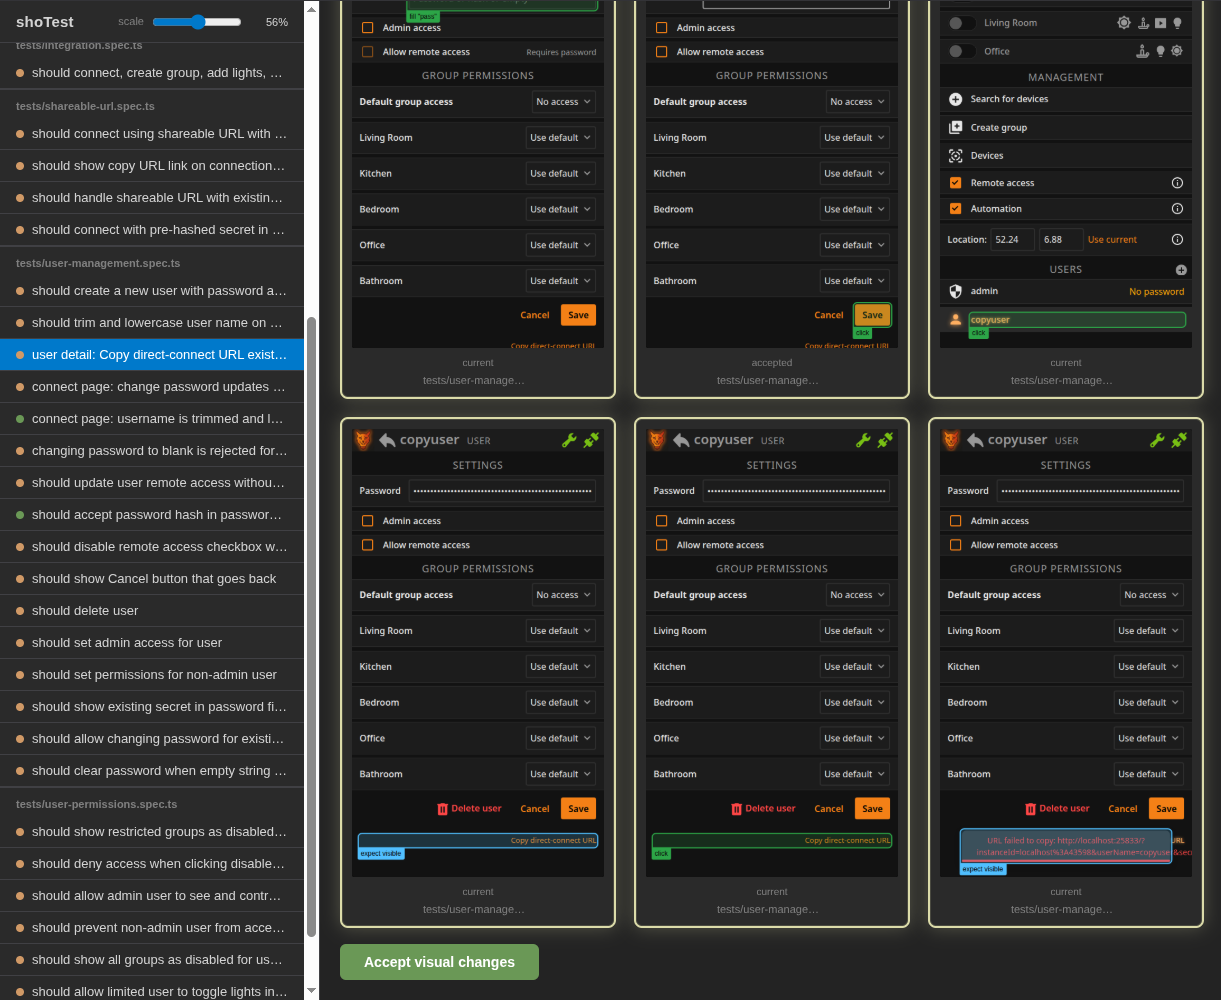
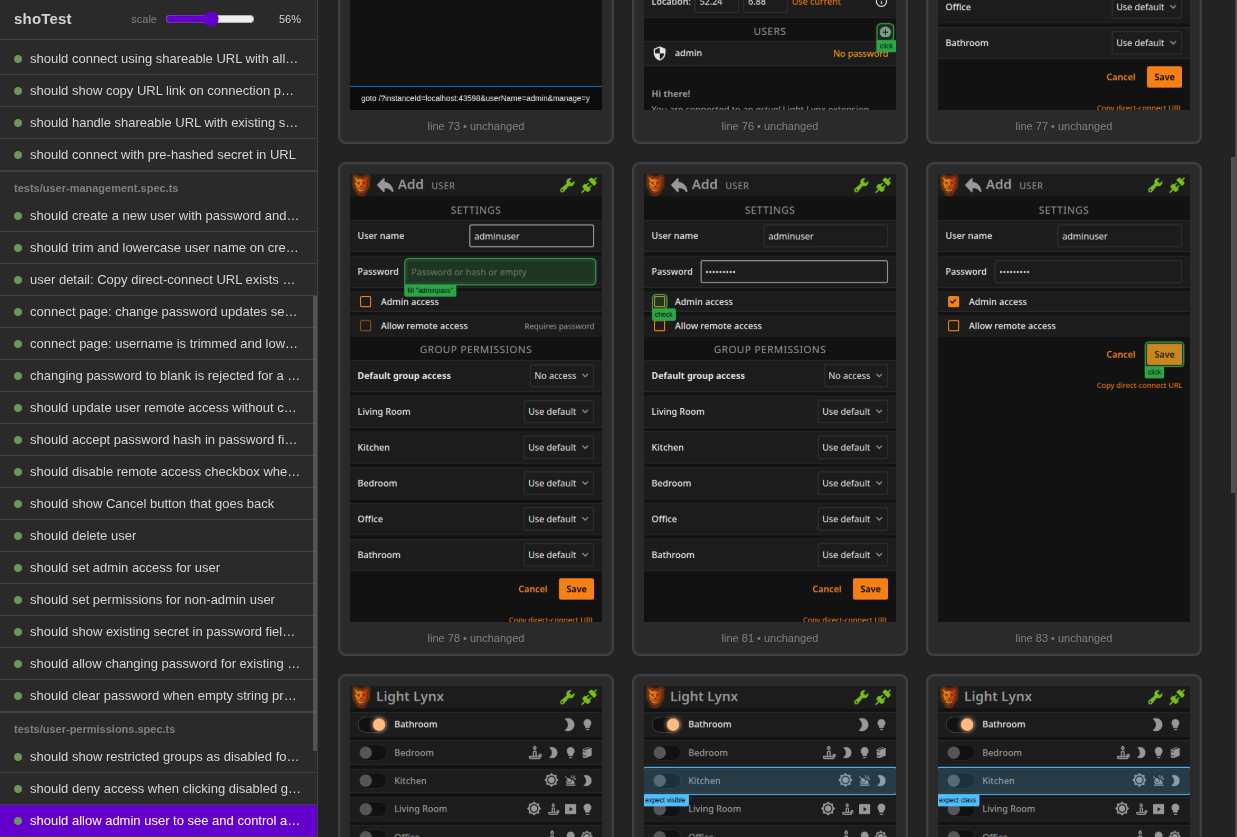
Various fixes and improved docs

Changed region(s): [[0.0, 0.0, 1.0, 1.0]]

diff --git a/src/fixture.ts b/src/fixture.ts
@@ -396,12 +396,12 @@ function wrapLocator(actualLocator: Locator, actualPage: Page): Locator {
             try {
                 await hideOverlay(actualPage);
                 await waitForVisualStability(actualPage, 250);
-                const box = await actualLocator.boundingBox({ timeout: 3000 }).catch(() => null);
+                await actualLocator.scrollIntoViewIfNeeded({ timeout: 3000 }).catch(() => {});
+                const box = await actualLocator.boundingBox().catch(() => null);
                 if (!box) {
-                    await showOverlayBanner(actualPage, `Cannot find ${actualLocator} for ${short}`, 'info');
-                } else {
-                    await showOverlayCheck(actualPage, box, short);
+                    throw new Error(failureText);
                 }
+                await showOverlayCheck(actualPage, box, short);
                 await takeScreenshot(actualPage, true, loc);
                 const result = await (actualLocator as any)[method](...args);
                 pendingFailureText = '';
@@ -430,7 +430,8 @@ function wrapLocator(actualLocator: Locator, actualPage: Page): Locator {
             const result = await (actualLocator as any)._expect(method, options);
             await hideOverlay(actualPage);
             await waitForVisualStability(actualPage, 200);
-            const box = await actualLocator.boundingBox({ timeout: 1000 }).catch(() => null);
+            await actualLocator.scrollIntoViewIfNeeded({ timeout: 1000 }).catch(() => {});
+            const box = await actualLocator.boundingBox().catch(() => null);
             if (box) {
                 await showOverlayCheck(actualPage, box, label, 'assert');
             } else {
@@ -442,7 +443,8 @@ function wrapLocator(actualLocator: Locator, actualPage: Page): Locator {
         } catch (error: any) {
             await hideOverlay(actualPage);
             await waitForVisualStability(actualPage, 120);
-            const box = await actualLocator.boundingBox({ timeout: 500 }).catch(() => null);
+            await actualLocator.scrollIntoViewIfNeeded({ timeout: 500 }).catch(() => {});
+            const box = await actualLocator.boundingBox().catch(() => null);
             if (box) {
                 await showOverlayCheck(actualPage, box, failureText, 'assert');
             } else {
@@ -452,6 +454,22 @@ function wrapLocator(actualLocator: Locator, actualPage: Page): Locator {
             failureCaptured = true;
             throw error;
         }
+    };
+
+    wrapped.waitFor = async function (options?: any) {
+        const loc = getCallerLocation();
+        lastStepLocation = loc;
+        await (actualLocator as any).waitFor(options);
+        await hideOverlay(actualPage);
+        await waitForVisualStability(actualPage, 200);
+        await actualLocator.scrollIntoViewIfNeeded({ timeout: 1000 }).catch(() => {});
+        const box = await actualLocator.boundingBox().catch(() => null);
+        if (box) {
+            await showOverlayCheck(actualPage, box, 'waitFor');
+        } else {
+            await showOverlayBanner(actualPage, 'waitFor', 'info');
+        }
+        await takeScreenshot(actualPage, true, loc);
     };
 
     const locatorReturning = ['locator', 'filter', 'nth', 'first', 'last', 'getByText', 'getByRole', 'getByPlaceholder', 'getByLabel', 'getByTestId', 'getByAltText', 'getByTitle'];
@@ -483,7 +501,6 @@ function wrapPage(actualPage: Page): Page {
         lastStepLocation = loc;
         await actualPage.goto(url, options);
         await actualPage.waitForLoadState('load').catch(() => { });
-        await actualPage.addStyleTag({ content: OVERLAY_STYLE });
         await waitForVisualStability(actualPage, 500);
         await showOverlayBanner(actualPage, 'goto ' + url, 'info');
         await takeScreenshot(actualPage, true, loc);
@@ -512,16 +529,18 @@ export const test = baseTest.extend({
         fs.mkdirSync(outDir, { recursive: true });
 
         // Set video mode flag and inject appropriate CSS
-        await actualPage.addInitScript(({ isVideoMode, videoCss }: { isVideoMode: boolean; videoCss: string }) => {
+        await actualPage.addInitScript(({ isVideoMode, videoCss, overlayCss }: { isVideoMode: boolean; videoCss: string; overlayCss: string }) => {
             (window as any).__VIDEO_MODE__ = isVideoMode;
+            const style = document.createElement('style');
             if (isVideoMode) {
                 Object.defineProperty(navigator, 'webdriver', { get: () => false });
-                const style = document.createElement('style');
                 style.textContent = videoCss;
-                if (document.head) document.head.appendChild(style);
-                else document.addEventListener('DOMContentLoaded', () => document.head.appendChild(style));
+            } else {
+                style.textContent = overlayCss;
             }
-        }, { isVideoMode: videoMode, videoCss: VIDEO_INIT_CSS });
+            if (document.head) document.head.appendChild(style);
+            else document.addEventListener('DOMContentLoaded', () => document.head.appendChild(style));
+        }, { isVideoMode: videoMode, videoCss: VIDEO_INIT_CSS, overlayCss: OVERLAY_STYLE });
 
         actualPage.on('console', (...args: any[]) => console.log('Browser:', ...args));
         actualPage.on('pageerror', err => console.error('BROWSER ERROR:', err.message));

diff --git a/src/review-ui/app.js b/src/review-ui/app.js
@@ -155,7 +155,7 @@ A(detailEl, () => {
                 A(`div.step.${change}`, () => {
                     
                     if (change === 'changed') {
-                        let mouseState = A.create();
+                        let mouseState = A.proxy();
                         function onMouseMove(event) {
                             const box = event.currentTarget.getBoundingClientRect();
                             mouseState.value = event.clientX - box.left > box.width / 2; // true for 'current', false for 'accepted'
@@ -199,7 +199,7 @@ A(detailEl, () => {
 
         const hasAnyChanges = steps.some(s => s.changed || (!s.acceptedImage && s.currentImage) || (s.acceptedImage && !s.currentImage));
         if (hasAnyChanges) {
-            A('button.accept-btn #Accept visual changes', 'click=', () => acceptChanges(state.selected));
+            A('button.accept-btn #Accept visuals', 'click=', () => acceptChanges(state.selected));
         }
     });
 });

diff --git a/src/review-ui/style.css b/src/review-ui/style.css
@@ -4,7 +4,7 @@
   --bg3: #2d2d30;
   --fg: #d4d4d4;
   --fg2: #808080;
-  --accent: #007acc;
+  --accent: #6300cc;
   --red: #f44747;
   --green: #6a9955;
   --orange: #d19a66;
@@ -204,7 +204,7 @@ body { font-family: -apple-system, BlinkMacSystemFont, "Segoe UI", sans-serif; b
 }
 
 .accept-btn {
-  background: var(--green);
+  background: var(--accent);
   color: white;
   border: none;
   padding: 10px 24px;

diff --git a/README.md b/README.md
@@ -11,61 +11,69 @@ shoTest is a small wrapper around Playwright Test that acts as a drop-in replace
 
 ## Setup
 
-Install the dependency and browser:
+Install `shotest` (*instead* of installing `@playwright/test` directly) and install a browser:
 
 ```bash
 npm install -D shotest
 npx playwright install chromium
 ```
 
-The package also exposes the Playwright CLI, so standard commands like the browser installer keep working unchanged.
+Create a `tests/` directory, in which your tests will live as `.spec.ts` files.
 
-Create a place for your tests:
+Add the `test-results` directory to `.gitignore`.
 
-```bash
-mkdir -p tests
-```
-
-Put your specs in `tests/` and name them `*.spec.ts`.
-
-Add the run output directory to `.gitignore`:
-
-```gitignore
-test-results/
-```
-
-A minimal `playwright.config.ts` for shoTest looks like this:
+Create a `playwright.config.ts`, that may look something like this:
 
 ```ts
-import { defineConfig } from 'shotest';
+import { defineConfig, devices } from 'shotest';
 
 export default defineConfig({
-  fullyParallel: false,
-  workers: 1, // set this if your app has state
   use: {
-    baseURL: 'https://google.com', // set to your app URL
+    baseURL: 'https://automationexercise.com/', // set to your app URL
     screenshot: 'off', // shoTest captures its own screenshots
+    viewport: { width: 450, height: 800 },
   },
+  timeout: 5000, // ms before a test fails
+  workers: 1, // set this if your app has state
+  webServer: [ // start your test-servers here (optional)
+    // { 
+    //   command: 'exec npm run dev -- --port 25833',
+    //   port: 25833,
+    // },
+  ]
 });
+```
+
+If you use Claude Code, GitHub Copilot or another AI agent that supports Skills, shoTest includes a `skill/` directory in its npm package that provides the docs such that it can be easily loaded as a skill for in-context guidance while writing tests. To set this up:
+
+```bash
+mkdir -p .claude/skills
+ln -s ../../node_modules/shotest/skill .claude/skills/shotest
 ```
 
 ## Basic usage
 
-shoTest re-exports the full Playwright Test API, so you can replace imports from Playwright directly with shoTest:
+shoTest re-exports the full Playwright Test API, which you can use like normal. For example:
 
 ```ts
 // tests/example.spec.ts
-import { test, expect, screenshot } from 'shotest';
+import { test } from 'shotest';
 
-test('open settings', async ({ page }) => {
-  await page.getBy('button', { name: 'Settings' }).click();
-  await expect(page.getByText('Preferences')).toBeVisible();
+test('view and buy a product', async ({ page }) => {
+    await page.goto('/');
 
-  await screenshot(page, 'settings-open');
+    await page
+        .locator('.product-image-wrapper', { hasText: 'Fancy Green Top' })
+        .getByRole('link', { name: 'View Product' })
+        .click();
+
+    await page.getByRole('heading', { name: 'Fancy Green Top' }).waitFor();
+    await page.getByRole('button', { name: /add to cart/i }).click();
+    await page.getByRole('link', { name: /view cart/i }).click();
 });
 ```
 
-Everything from Playwright Test remains available, including symbols such as browsers, devices, and config helpers. Most common page and locator actions are wrapped so that a screenshot is taken automatically during the test.
+Most common page and locator actions are wrapped so that a screenshot is taken automatically during the test.
 
 Run the tests using:
 
@@ -73,34 +81,23 @@ Run the tests using:
 npx playwright test
 ```
 
-## Output directories
+This should output screenshots and HTML snapshots for each step to the default Playwright per-test output directory under `test-results/`.
 
-By default shoTest uses:
+## Reviewing app
 
-- Playwright's standard `test-results/` output folder for the current run
-- `test-accepted/` for accepted baseline images
-
-Each test run gets its own Playwright output subdirectory, and shoTest stores screenshots, HTML snapshots, and `manifest.json` there. Usually you clean `test-results/` on each run and keep `test-accepted/` in version control.
-
-## Reviewing changes
-
-After running the tests:
+In order to review test results, compare changes against the baseline, and accept intentional changes, run the shoTest review server:
 
 ```bash
 npx shotest
 ```
 
-Then open:
+It serves a web app on localhost and attempts to open it in your default browser.
 
-```text
-http://localhost:3847
-```
-
-Use the review page to inspect failures, compare screenshots, and accept the new baseline when the change is intentional.
+When you press the 'Accept visuals' button for a test, its output screenshots are copied to the `test-accepted` directory (configurable through `SHOTEST_ACCEPTED_DIR`), and become the new accepted baseline. It is recommended to commit changes to this directory to version control (unlike `test-results/`).
 
 ## Recording demo videos
 
-shoTest includes helper functions for recording demonstration videos with visible interactions and natural delays. They are exported directly from `shotest`, alongside the regular Playwright functions:
+shoTest includes a couple of helper functions (named `demo`Something) that are not part of Playwright, for recording demonstration videos with visible interactions and natural delays. 
  
 ```ts
 import { test, expect, demoTap, demoType, demoPause, demoSwipe } from 'shotest';
@@ -113,25 +110,89 @@ test('demo', async ({ page }) => {
 });
 ```
 
-**Important:** These helpers can run in two modes:
+**Important:** These helpers behave differently, depending on whether *demo mode* is active:
 
-- Demo mode. The helper functions will emulate real user interactions with small delays, and add touch effects to taps and swipes. No overlaid screenshots are captured, so as not to disturb the video.
-- Regular test mode, meaning they run as fast as possible with no delays or visual effects. This allows you to include your demo recording script in your test suite, without an outsized impact on test runtime.
+- Demo mode active. The helper functions will emulate real user interactions with small delays, and add touch effects to taps and swipes. No overlaid screenshots are captured, so as not to disturb the video.
+- Demo mode inactive. The helper functions run as fast as possible with no delays or visual effects. This allows you to include your demo recording script in your test suite, without an outsized impact on test runtime.
 
-Demo mode is automatically activated when Playwright video recording is enabled, when `SHOTEST_VIDEO` is set for the run, or when it's running in headed mode. You can override this by setting the `SHOTEST_DEMO` environment variable to `on` or `off`.
+Demo mode is automatically activated when Playwright video recording is enabled or when it's running in headed mode. You can override this by setting the `SHOTEST_DEMO` environment variable to `on` or `off`.
 
-To record demo videos for a run, set `SHOTEST_VIDEO` when invoking Playwright:
+A convenient way to record demo videos for a run is to set `SHOTEST_VIDEO` to `on` when invoking Playwright:
 
 ```sh
 SHOTEST_VIDEO=on npx playwright test
 ```
 
-This uses Playwright's normal video output handling, so the videos are written to the standard per-test output directory under `test-results/`. You can also use Playwright's other video modes, for example:
+This uses Playwright's normal video output handling (which you can also enable through its `defineConfig`), so the videos are written to the standard per-test output directory under `test-results/`. 
 
-```sh
-SHOTEST_VIDEO=retain-on-failure npx playwright test
-```
+### Demo function reference
 
+The following is auto-generated from `src/video.ts`:
+
+### demoTap · function
+
+Tap an element with a visible touch ripple effect.
+
+In video mode, shows an expanding ripple animation at the tap point and
+waits briefly after clicking for a natural feel. When not in video mode,
+performs an instant click with no delay.
+
+**Signature:** `(page: Page, locator: Locator, delayMs?: number) => Promise<void>`
+
+**Parameters:**
+
+- `page: Page` - - The Playwright page instance.
+- `locator: Locator` - - The element to tap.
+- `delayMs: number` (optional) - - Post-tap delay in video mode (default: 800ms). Ignored outside video mode.
+
+### demoType · function
+
+Type text character-by-character with natural timing.
+
+In video mode, clicks the element and types each character with a delay,
+simulating realistic human typing. When not in video mode, fills the input
+instantly using `locator.fill()`.
+
+**Signature:** `(page: Page, locator: Locator, text: string, charDelayMs?: number) => Promise<void>`
+
+**Parameters:**
+
+- `page: Page` - - The Playwright page instance.
+- `locator: Locator` - - The input element to type into.
+- `text: string` - - The text to type.
+- `charDelayMs: number` (optional) - - Delay between characters in video mode (default: 80ms). Ignored outside video mode.
+
+### demoPause · function
+
+Pause for a specified duration (video mode only).
+
+In video mode, waits for the given number of milliseconds, useful for
+giving viewers time to see the current state. When not in video mode,
+returns immediately with no delay.
+
+**Signature:** `(page: Page, ms?: number) => Promise<void>`
+
+**Parameters:**
+
+- `page: Page` - - The Playwright page instance.
+- `ms: number` (optional) - - Duration to pause in milliseconds (default: 2000ms). Ignored outside video mode.
+
+### demoSwipe · function
+
+Perform a swipe gesture with a visible touch indicator.
+
+In video mode, shows a circular touch indicator that follows the swipe
+path with eased motion and a fade-out effect at the end. When not in
+video mode, performs a fast programmatic swipe with no visual indicator.
+
+**Signature:** `(page: Page, locator: Locator, direction: "up" | "down" | "left" | "right", distancePx?: number) => Promise<void>`
+
+**Parameters:**
+
+- `page: Page` - - The Playwright page instance.
+- `locator: Locator` - - The element to swipe on.
+- `direction: 'up' | 'down' | 'left' | 'right'` - - Swipe direction: 'up', 'down', 'left', or 'right'.
+- `distancePx: number` (optional) - - Distance to swipe in pixels (default: 200).
 
 ## Environment variables
 

diff --git a/skill-header.md b/skill-header.md
@@ -1,0 +1,26 @@
+---
+name: shotest
+description: shoTest is a visual testing wrapper built around Playwright Test. If `shotest` is a devDependency of this project, you must provide visual test specs for all new/modified features you create. Just write Playwright specs in `tests/`, but import from `shotest` what you would normally import from `@playwright/test`. If you need further guidance, load this skill.
+---
+
+# UI Testing Guidance
+
+After running `npx playwright test`, results for a test are in its `test-results/<TEST_NAME>/` directory. It may contain:
+
+- <POSITION>.png: screenshot (you can view this image for visual/layout verification)
+- <POSITION>.body.html: DOM body snapshot (useful for debugging and for writing test selectors)
+- <POSITION>.head.html: DOM head snapshot
+- error.txt: error message + stack trace (in case of an error)
+- manifest.json: metadata for 'npx shotest' review tool (for human only; you may want to instruct your human to do this when you're presenting new features)
+
+TEST_NAME is generated by Playwright based on the spec file name and the name of the test.
+POSITION consists of the line number in the test file, suffixed by a letter for uniqueness. (Eg: `0010a`.)
+
+When you create new UI features:
+1. Make sure they are tested by `tests/*.spec.ts` Playwright test files.
+2. Run the tests.
+3. If you are capable of viewing images, review images at some carefully selected points in the test flow, in order for you to see your new/changed features.
+4. Fix any issues (test or visual; humans like things to look good!) and repeat from 1 until satisfaction.
+
+What follows is the README.md from `shotest`:
+
